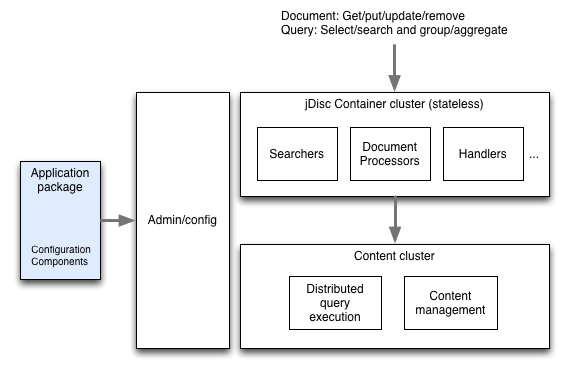
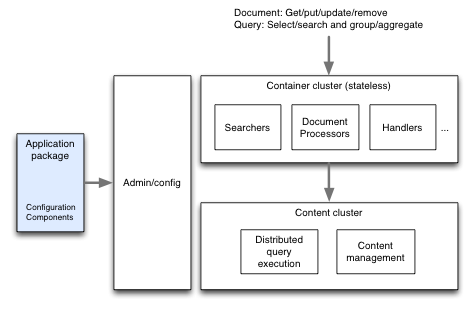
Minor overview improvements
- use container or Vespa container, not JDisc
- link to guides, not reference docs, where we have a good guide
  - the guide should link to reference docs, this gives a better reading flow
- make yql more prominent, this is the default ...
  - search-api.html will be fix in another PR

diff --git a/documentation/overview.html b/documentation/overview.html
@@ -15,7 +15,7 @@ This document provides an overview of the features and main components of the pl
 <p>
 Vespa allows application developers to create backend and middleware systems which scale
 to accommodate large amounts of data and high loads without sacrificing latency or reliability.
-A Vespa instance consists of a number of <em>stateless Java container clusters</em> (jDisc)
+A Vespa instance consists of a number of <em>stateless Java container clusters</em>
 and zero or more <em>content</em> clusters storing data.
 </p><img src="img/overview/vespa-overview.png"><p>
 The <a href="container-intro.html">stateless <strong>container</strong> clusters</a> host components
@@ -27,7 +27,7 @@ performs all such functions, or create different clusters within their system fo
 The container clusters then pass queries and data operations on to the appropriate content clusters &mdash;
 or, if the application uses data it does not own, it can also federate with external services which supply this data.
 </p><p>
-<a href="reference/services-content.html"><strong>Content</strong> clusters</a> in Vespa are responsible for storing data
+<a href="elastic-vespa.html"><strong>Content</strong> clusters</a> in Vespa are responsible for storing data
 (documents) and performing lookups and distributed select/group/aggregate queries over it.
 They can function both as a simple key-value serving store
 as well as perform complex searches over structured and unstructured data,
@@ -47,7 +47,7 @@ Writes can be sent directly over HTTP, or by using a Java client &mdash;
 refer to the <a href="api.html">API documentation</a>.
 </p><p>
 Each document instance stored in Vespa must have a configured
-<a href="reference/search-definitions-reference.html">schema</a>.
+<a href="search-definitions.html">schema</a>.
 Each content cluster in a system can handle data of many types at the same time;
 applications can separate different types of data into different content clusters, 
 or put multiple data types in the same content cluster.
@@ -74,15 +74,16 @@ The rest of this document provides some more detail on the functions Vespa perfo
 
 
 
-<h2 id="vespa_operations">Vespa operations</h2>
+<h2 id="vespa-operations">Vespa operations</h2>
 <p>
 Vespa accepts the following operations:
 </p>
 <ul>
 	<li>Writes: Put (add and replace) and remove documents, and update fields in these.</li>
 	<li>Lookup of a document (or some subset of it) by id.</li>
-	<li><a href="reference/search-api-reference.html">Queries</a>:
-    <a href="reference/simple-query-language-syntax.html"><em>Select</em></a> documents whose fields match a boolean combination of conditions;
+	<li><a href="querying-vespa.html">Queries</a>:
+    <a href="query-language.html"><em>Select</em></a> documents
+    whose fields match a boolean combination of conditions;
     matches are either <a href="reference/sorting.html"><em>sorted</em></a>,
     <a href="ranking.html"><em>ranked</em></a> or <a href="grouping.html"><em>grouped</em></a>.
     Ranking is done according to a <em><a href="reference/ranking-expressions.html">ranking expression</a></em>,
@@ -99,16 +100,17 @@ Vespa accepts the following operations:
 	<li><a href="component-types.html">Any other custom network request</a>
     which can be handled by application components deployed on a container cluster.</li>
 </ul>
-<p>These operations allow developers to build feature rich applications expressed as Java middleware logic
+<p>
+These operations allow developers to build feature rich applications expressed as Java middleware logic
 working on stored content, where selection, keyword searches and organization and
 processing of the content can be expressed as declarative queries by the middleware logic.
 </p>
 
 
 
-<h2 id="the_jdisc_stateless_container">The jDisc stateless container</h2>
+<h2 id="the-stateless-container">The stateless container</h2>
 <p>
-<a href="container-intro.html">jDisc container clusters</a> host the application components
+<a href="container-intro.html">Container clusters</a> host the application components
 which employ the operations listed above and process their return data.
 Vespa provides a set of components out of the box, together with component infrastructure:
 dependency injection built on top of <a href="https://github.com/google/guice">Guice</a>,
@@ -116,19 +118,21 @@ with added support for injection of config from the admin server or the applicat
 a component model based on OSGi;
 a shared mechanism to chain components into handler chains for modularity
 as well as metrics and logging.
-The container also provides the network layer for handling and issuing remote requests &mdash;
-HTTP is provided out of the box, and other protocols/transports can be transparently plugged in as components.
+The container also provides the network layer for handling and issuing remote requests -
+HTTP is provided out of the box,
+and other protocols/transports can be transparently plugged in as components.
 <p>
-Developers can make changes to components (and of course their configuration) simply by redeploying their application package &mdash;
-the system takes care of copying the components to the nodes of the cluster and loading/unloading components on the fly
-without impacting request serving.
+Developers can make changes to components (and of course their configuration)
+simply by redeploying their application package -
+the system takes care of copying the components to the nodes of the cluster
+and loading/unloading components on the fly without impacting request serving.
 </p>
 
 
 
 <h2 id="content_clusters">Content clusters</h2>
 <p>
-<a href="reference/services-content.html">Content clusters</a> reliably store data
+<a href="elastic-vespa.html">Content clusters</a> reliably store data
 and maintain distributed indices of data for searches and selects.
 The data is replicated over multiple nodes, with a number of copies specified by the application,
 such that the cluster can automatically repair itself on loss of a node or a disk.
@@ -158,8 +162,8 @@ and push only these to the distributed components.
 Changed components and data files are distributed over BitTorrent for efficiency.
 </p><p>
 Application packages may be <a href="cloudconfig/deploy-rest-api-v2.html">changed, redeployed</a>
-and <a href="cloudconfig/config-rest-api-v2.html">inspected</a>
-over a HTTP REST API, or through a command line interface.
+and <a href="cloudconfig/config-rest-api-v2.html">inspected</a> over a HTTP REST API,
+or through a <a href="cloudconfig/application-packages.html#deploy">command line interface</a>.
 The administration cluster runs over <a href="https://zookeeper.apache.org/doc/trunk/zookeeperOver.html">ZooKeeper</a>
 to make changes to configuration singular and consistent, and to avoid having a single point of failure.
 </p><p>
@@ -178,9 +182,11 @@ in an IDE using Maven starting from sample applications.
 <p>
 Vespa allows functionally rich and highly available applications to be developed to scale and perform to
 high standards without burdening developers with the considerable low level complexity this requires.
-It allows developers to evolve and grow their applications over time without taking the system offline, and lets them avoid
-complex data and page precomputing schemes which lead to stale data that cannot be personalized, since this often requires
-complex queries to complete in real user time over data which is constantly changing at the same time.
+It allows developers to evolve and grow their applications over time without taking the system offline,
+and lets them avoid complex data and page precomputing schemes
+which lead to stale data that cannot be personalized,
+since this often requires complex queries to complete in real user time
+over data which is constantly changing at the same time.
 </p><p>
 To learn more about the Vespa capabilities,
 run the <a href="tutorials/blog-search.html">Blog search tutorial</a>.

diff --git a/documentation/reference/search-api-reference.html b/documentation/reference/search-api-reference.html
@@ -3,7 +3,6 @@
 title: "Vespa Search API reference"
 ---
 
-<h2>Query Profiles and Parameter Names</h2>
 <p>
 All the search request parameters listed below can be set in query
 profiles. The first four blocks of properties are also modeled as
@@ -23,6 +22,15 @@ get methods as Java objects from the Query to Searcher components.
 
 
 <h2>Index</h2>
+
+<dt>Query</dt>
+<dd>
+  <ul>
+    <li><a href="#yql">yql</a></li>
+  </ul>
+</dd>
+</dl>
+
 <dl>
 <dt>Native Execution Parameters</dt>
 <dd>
@@ -127,10 +135,23 @@ get methods as Java objects from the Query to Searcher components.
     <li><a href="#user">user</a></li>
     <li><a href="#nocachewrite">nocachewrite</a></li>
     <li><a href="#hitcountestimate">hitcountestimate</a></li>
-    <li><a href="#yql">yql</a></li>
   </ul>
 </dd>
 </dl>
+
+
+<h2 id="query">Query</h2>
+<h3 id="yql">yql</h3>
+<table class="table table-striped">
+<tr><td>Alias</td><td></td></tr>
+<tr><td>Values</td><td>String</td></tr>
+<tr><td>Default</td><td>None</td></tr>
+</table>
+<p>
+The YQL query will be parsed and executed in the backend.
+Only simple YQL programs are supported, refer to
+<a href="../query-language.html">YQL</a> for details.
+</p>
 
 
 
@@ -978,18 +999,4 @@ but it triggers no features in Vespa apart from being propagated to the QRS acce
 <p>Make this an estimation query.
 No hits will be returned, and total hit count will be set to an estimate of what executing
 the query as a normal query would give.
-</p>
-
-
-<h3 id="yql">yql</h3>
-<table class="table table-striped">
-<tr><td>Alias</td><td></td></tr>
-<tr><td>Values</td><td>String</td></tr>
-<tr><td>Default</td><td>None</td></tr>
-</table>
-<p>
-A YQL query, this may reference the conventional query.
-The YQL query will be parsed and executed in the backend.
-Only simple YQL programs are supported, refer to
-<a href="../query-language.html">YQL</a> for details.
 </p>

diff --git a/documentation/search-api.html b/documentation/search-api.html
@@ -5,10 +5,11 @@ title: "Search API"
 
 <p>
 Search with Vespa using HTTP GET requests. HTTP keepalive is supported.
-Refer to the <a href="reference/search-api-reference.html">search API</a>.
+<!-- ToDo check is POST supported? -->
+Refer to the <a href="reference/search-api-reference.html">search API reference</a>.
 The general form of a search request is:
 <pre>
-http://&lt;qrs-host&gt;:&lt;qrs-port&gt;/search/?&lt;param1=value1&gt;&amp;&lt;param2=value2&gt;&hellip;
+http://&lt;host&gt;:&lt;port&gt;/search/?&lt;param1=value1&gt;&amp;&lt;param2=value2&gt;&hellip;
 </pre>
 QRS (Query Result Server) is the service accepting Vespa search requests.
 The only mandatory parameter is <code>query</code> or <code>yql</code> - examples:
@@ -24,6 +25,7 @@ see <a href="http://www.ietf.org/rfc/rfc2396.txt">RFC 2396</a>.
 </p>
 
 
+<!-- ToDo: move the legacy simple query language out of here -->
 
 <h2 id="query-strings">Query Strings</h2>
 <p>

diff --git a/documentation/querying-vespa.html b/documentation/querying-vespa.html
@@ -5,7 +5,13 @@ title: "Querying Vespa"
 
 <p>
 This is an overview of the components and data flow for Vespa queries.
+</p><p>
+Queries are sent to Vespa using the <a href="search-api.html">Search API</a>.
+Query strings are written in <a href="query-language.html">YQL</a>.
 </p>
+
+
+<h2 id="query-flow">Query flow</h2>
 <ol>
   <li>
     A query is sent from a front-end application to a Query Result Server node - QRS.
